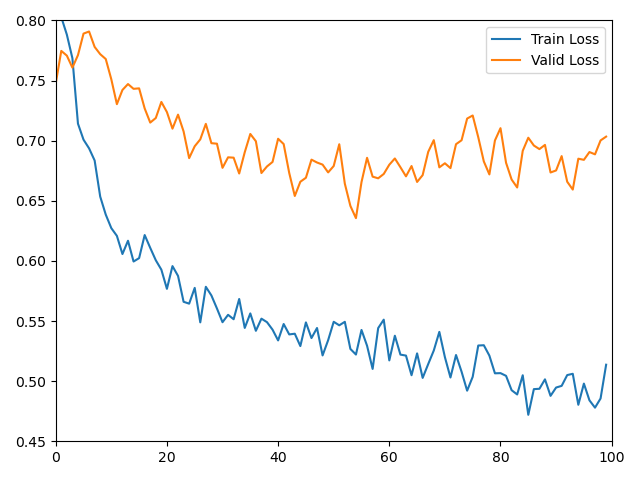
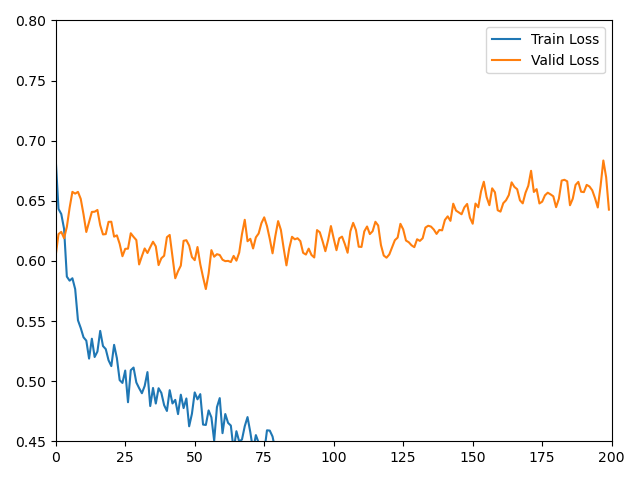
Add simulation to the training loop

diff --git a/src/training.py b/src/training.py
@@ -14,7 +14,7 @@ from src import create_datasets
 from src.cbfocal_loss import FocalLoss
 from src.dataset import print_target_distribution
 from src.models.abstract_model import AbstractModel
-
+from src.simulation import simulate_trades
 
 def train(
         model,
@@ -76,7 +76,8 @@ def evaluate(
         dataloader,
         criterion,
         device: th.device = 'cpu',
-) -> tuple[float, float, float, float, th.Tensor, float]:
+        simulate: bool = False
+) -> tuple[float, float, float, float, th.Tensor, float, pd.DataFrame | None]:
     # Set the model to evaluation
     model.eval()
     # total_loss = 0.0
@@ -104,6 +105,15 @@ def evaluate(
     all_preds = th.cat(all_preds).cpu()
     all_labels = th.cat(all_labels).cpu()
 
+    # We can use the simulation code to produce a results figure
+    data = dataloader.dataset
+    if simulate:
+        results_df = simulate_trades(
+            data.unscaled_prices.detach().cpu().numpy(),
+            all_preds.numpy(),
+            data.time_idx.detach().cpu().numpy()
+        )
+
     classes, counts = th.unique(all_preds, return_counts=True)
     pred_dist = th.zeros(3)
     pred_dist[classes] = counts / counts.sum()  # Are we abusing common class?
@@ -111,7 +121,7 @@ def evaluate(
     f1_weighted = f1_score(all_labels, all_preds, average='weighted')
     mcc = matthews_corrcoef(all_labels, all_preds)
 
-    return losses.sum(), losses.mean(), accuracies.mean(), f1_weighted, pred_dist, mcc
+    return losses.sum(), losses.mean(), accuracies.mean(), f1_weighted, pred_dist, mcc, results_df if simulate else None
 
 
 def train_model(
@@ -191,7 +201,7 @@ def train_model(
         # Run training over the batches
         train_loss, train_loss_avg = train(model, train_loader, optimizer, criterion, device, epoch, writer=writer)
         # Evaluate the validation set
-        v_loss, v_loss_avg, v_acc, v_f1, v_pred_dist, v_mcc = evaluate(model, valid_loader, criterion, device=device)
+        v_loss, v_loss_avg, v_acc, v_f1, v_pred_dist, v_mcc, _ = evaluate(model, valid_loader, criterion, device=device)
 
         # Log the progress
         train_losses[epoch] = train_loss_avg
@@ -213,17 +223,40 @@ def train_model(
         pb.update(1)
 
     # Evaluate the test set
-    test_loss, test_loss_avg, test_acc, test_f1, test_pred_dist, test_mcc = evaluate(
+    test_loss, test_loss_avg, test_acc, test_f1, test_pred_dist, test_mcc, sim_df = evaluate(
         model,
         test_loader,
         criterion,
-        device=device
+        device=device,
+        simulate=True
     )
+
     if writer is not None:
         writer.add_scalar("Loss/test", test_loss_avg, epochs)
         writer.add_scalar("Accuracy/test", test_acc, epochs)
         writer.add_scalar("F1/test", test_f1, epochs)
         writer.add_scalar("MCC/test", test_mcc, epochs)
+
+        # sim_df is a 2 column data frame with a time index.
+        if sim_df is not None:
+            fig, ax = plt.subplots()
+            sim_df.plot(
+                ax=ax,
+                y=["value", "price"],
+                label=["Value", f"{model_params['symbol']} Normalized"]
+            )
+            # Add a dashed line at y = 1.0
+            ax.axhline(1.0, color='k', linestyle='--')
+            ax.set_xlabel("Date")
+            ax.set_ylabel("Normalized Value")
+            ax.set_title(f"Portfolio Value and Normalized Price: {model_params["symbol"]}")
+            plt.tight_layout()
+
+            writer.add_figure("Simulation/Results", fig, global_step=epochs)
+            # We can also compute cumulative returns and add that to the tensorboard
+            cum_ret = (sim_df["value"].iloc[-1] - sim_df["value"].iloc[0]) / sim_df["value"].iloc[0]
+            writer.add_scalar("Simulation/Cumulative Return", cum_ret, epochs)
+
 
     return train_losses, valid_losses, test_loss, test_loss_avg, test_acc, test_f1, test_pred_dist, test_mcc
 

diff --git a/src/simulation/_simulation.py b/src/simulation/_simulation.py
@@ -5,7 +5,7 @@ import matplotlib.pyplot as plt
 
 def simulate_trades(
         prices: np.array,
-        trades: np.array,
+        actions: np.array,
         timestamps: np.array,
         cash: float = 10_000,
         commission: float = 10.00,
@@ -15,7 +15,7 @@ def simulate_trades(
     Simulate the given trades with the starting cash balance.
 
     :param prices: The historical prices for the asset being simulated
-    :param trades: The list of trades to make for the given asset
+    :param actions: The list of actions to make for the given asset
     :param timestamps: The index of timestamps related to these trades
     :param cash: The starting balance before any trades are executed
     :param commission: The assumed commission for the trades being executed.
@@ -25,6 +25,7 @@ def simulate_trades(
     """
     # Convert the time stamps to a pandas datetime index
     timestamps = pd.to_datetime(timestamps, unit='s')
+    trades = get_long_short_trades(actions)
 
     # Setup prices for the stock and value of cash
     price_ix = np.ones((prices.shape[0], 2))
@@ -144,8 +145,8 @@ def run():
 
     # Test the trade simulation
     dummy_trades = np.zeros_like(valid.time_idx)
-    dummy_trades[0] = 1  # We just buy on the first day and that's it
-    dummy_trades[10] = -2
+    dummy_trades[0] = 2  # We just buy on the first day and that's it
+    dummy_trades[10] = 0
     results = simulate_trades(
         valid.unscaled_prices.detach().numpy(),
         dummy_trades,

diff --git a/param_search.py b/param_search.py
@@ -8,7 +8,7 @@ from src.training import run_grid_search
 def run_st_grid_search():
     root = os.getcwd()
     t2v_weights = f"t2v_n64_mlp1024_lr6.310e-05"
-    ctx_size = [10]
+    ctx_size = [10, 20]
     d_models = [64]
     batch_sizes = [128]
     l_rates = [1e-5]
@@ -21,11 +21,12 @@ def run_st_grid_search():
     num_heads = [8]
     num_lstm_layers = [2]
     lstm_dim = [256]
+    symbol = "bivi"
 
     # use itertools.product to generate dictionaries of hyperparameters
     search_configs = [
         {
-            "symbol": "atnf",
+            "symbol": symbol,
             "seq_len": ctx,
             "batch_size": bs,
             "trainer_params": {
@@ -33,12 +34,12 @@ def run_st_grid_search():
                 "scheduler": "plateau",
                 "optimizer": "adam",
                 "lr": lr,
-                "epochs": 100,
+                "epochs": 200,
                 "cbf_gamma": 1.0,
-                "cbf_beta": 0.9,
+                "cbf_beta": 0.99,
             },
             "model_params": {
-                "symbol": "atnf",
+                "symbol": symbol,
                 "seq_len": ctx,
                 "d_model": d,
                 "time_idx": [6, 7, 8],
@@ -75,7 +76,7 @@ def run_st_grid_search():
     run_grid_search(
         STTransformer,
         search_configs,
-        trial_prefix="stt_default",
+        trial_prefix=f"stt_default_{symbol}",
         root=root,
         y_lims=(0.45, 0.8),
     )

diff --git a/src/simulation/__init__.py b/src/simulation/__init__.py
@@ -1,1 +1,1 @@
-from ._simulation import get_long_short_trades
+from ._simulation import simulate_trades
